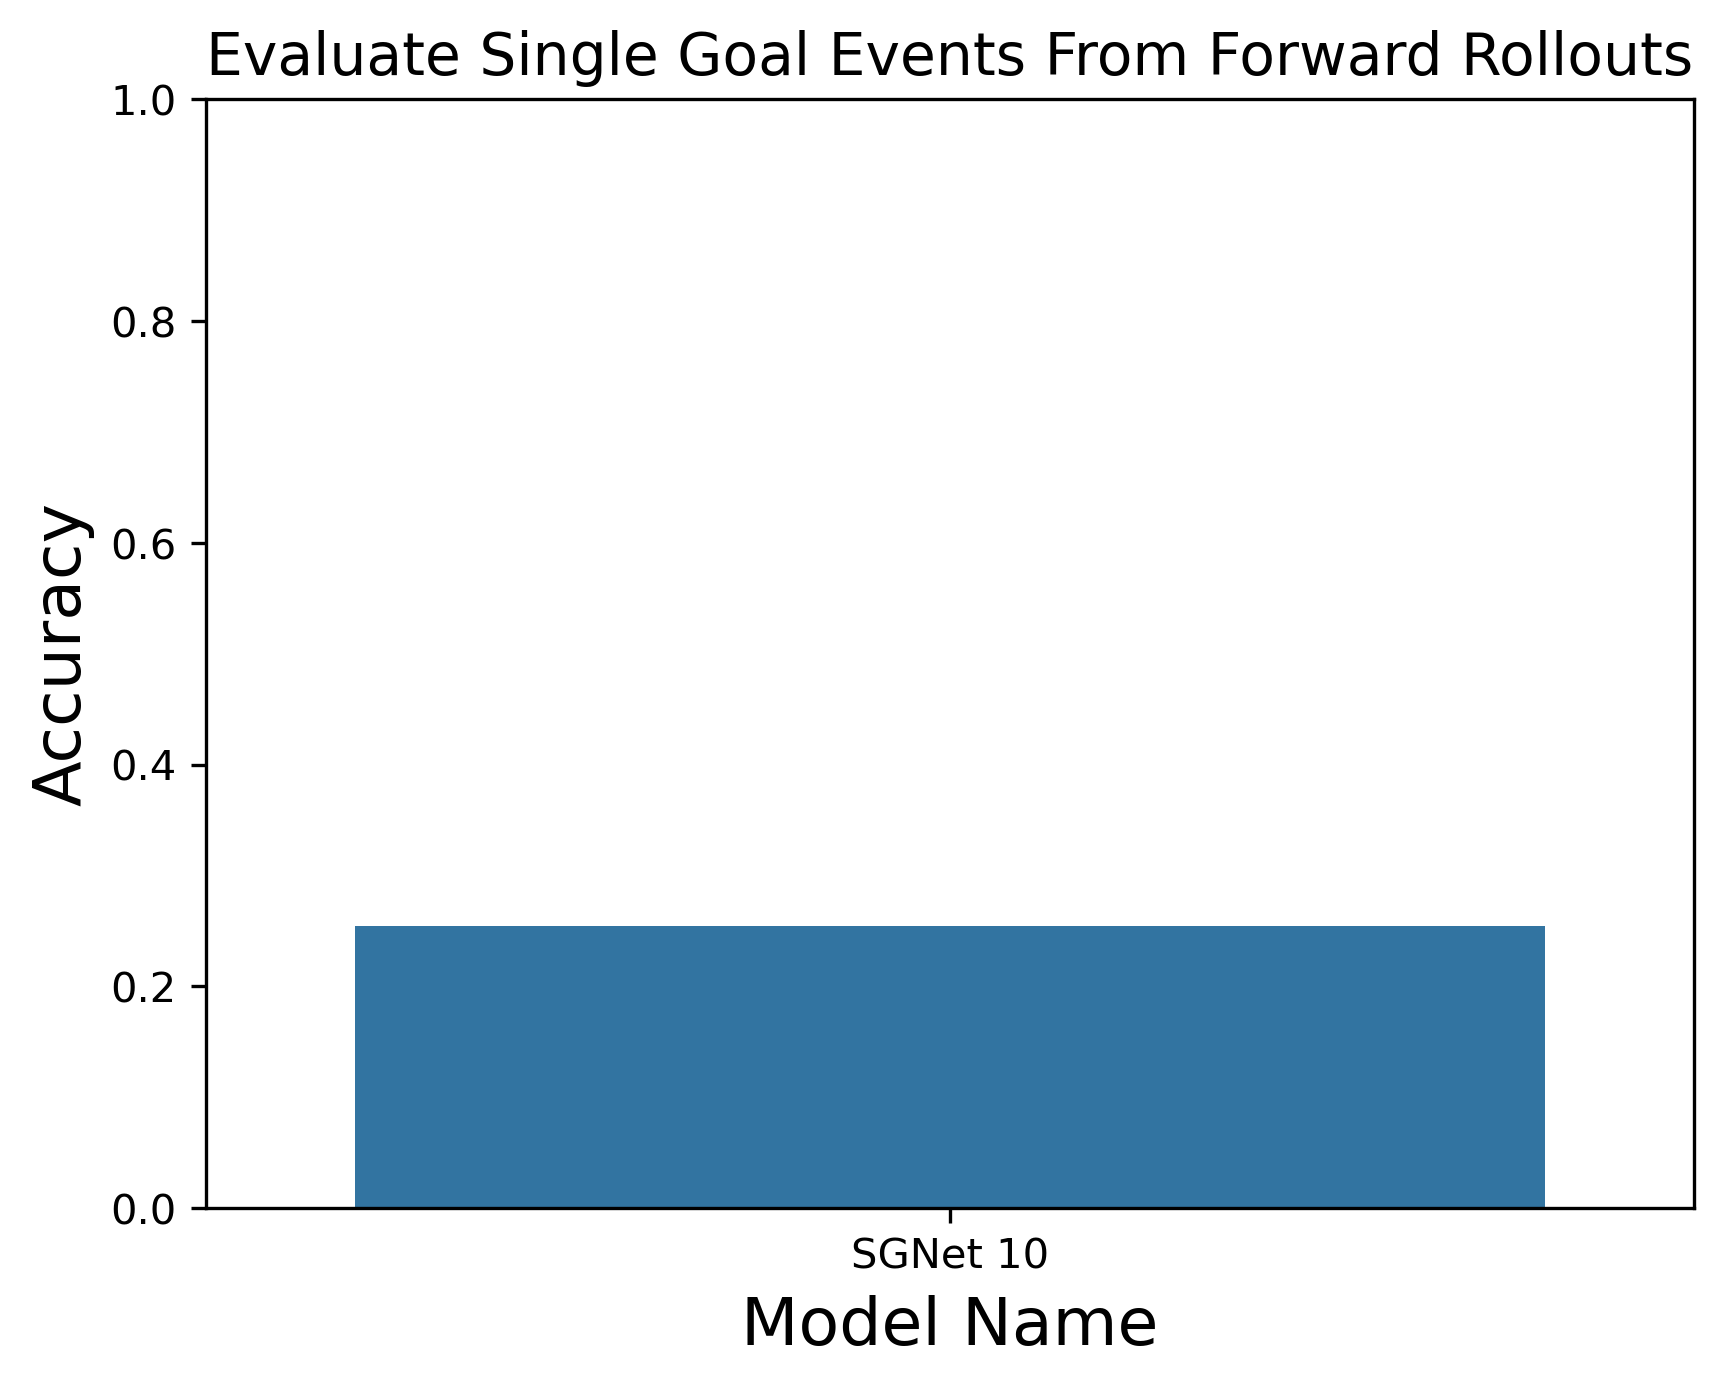
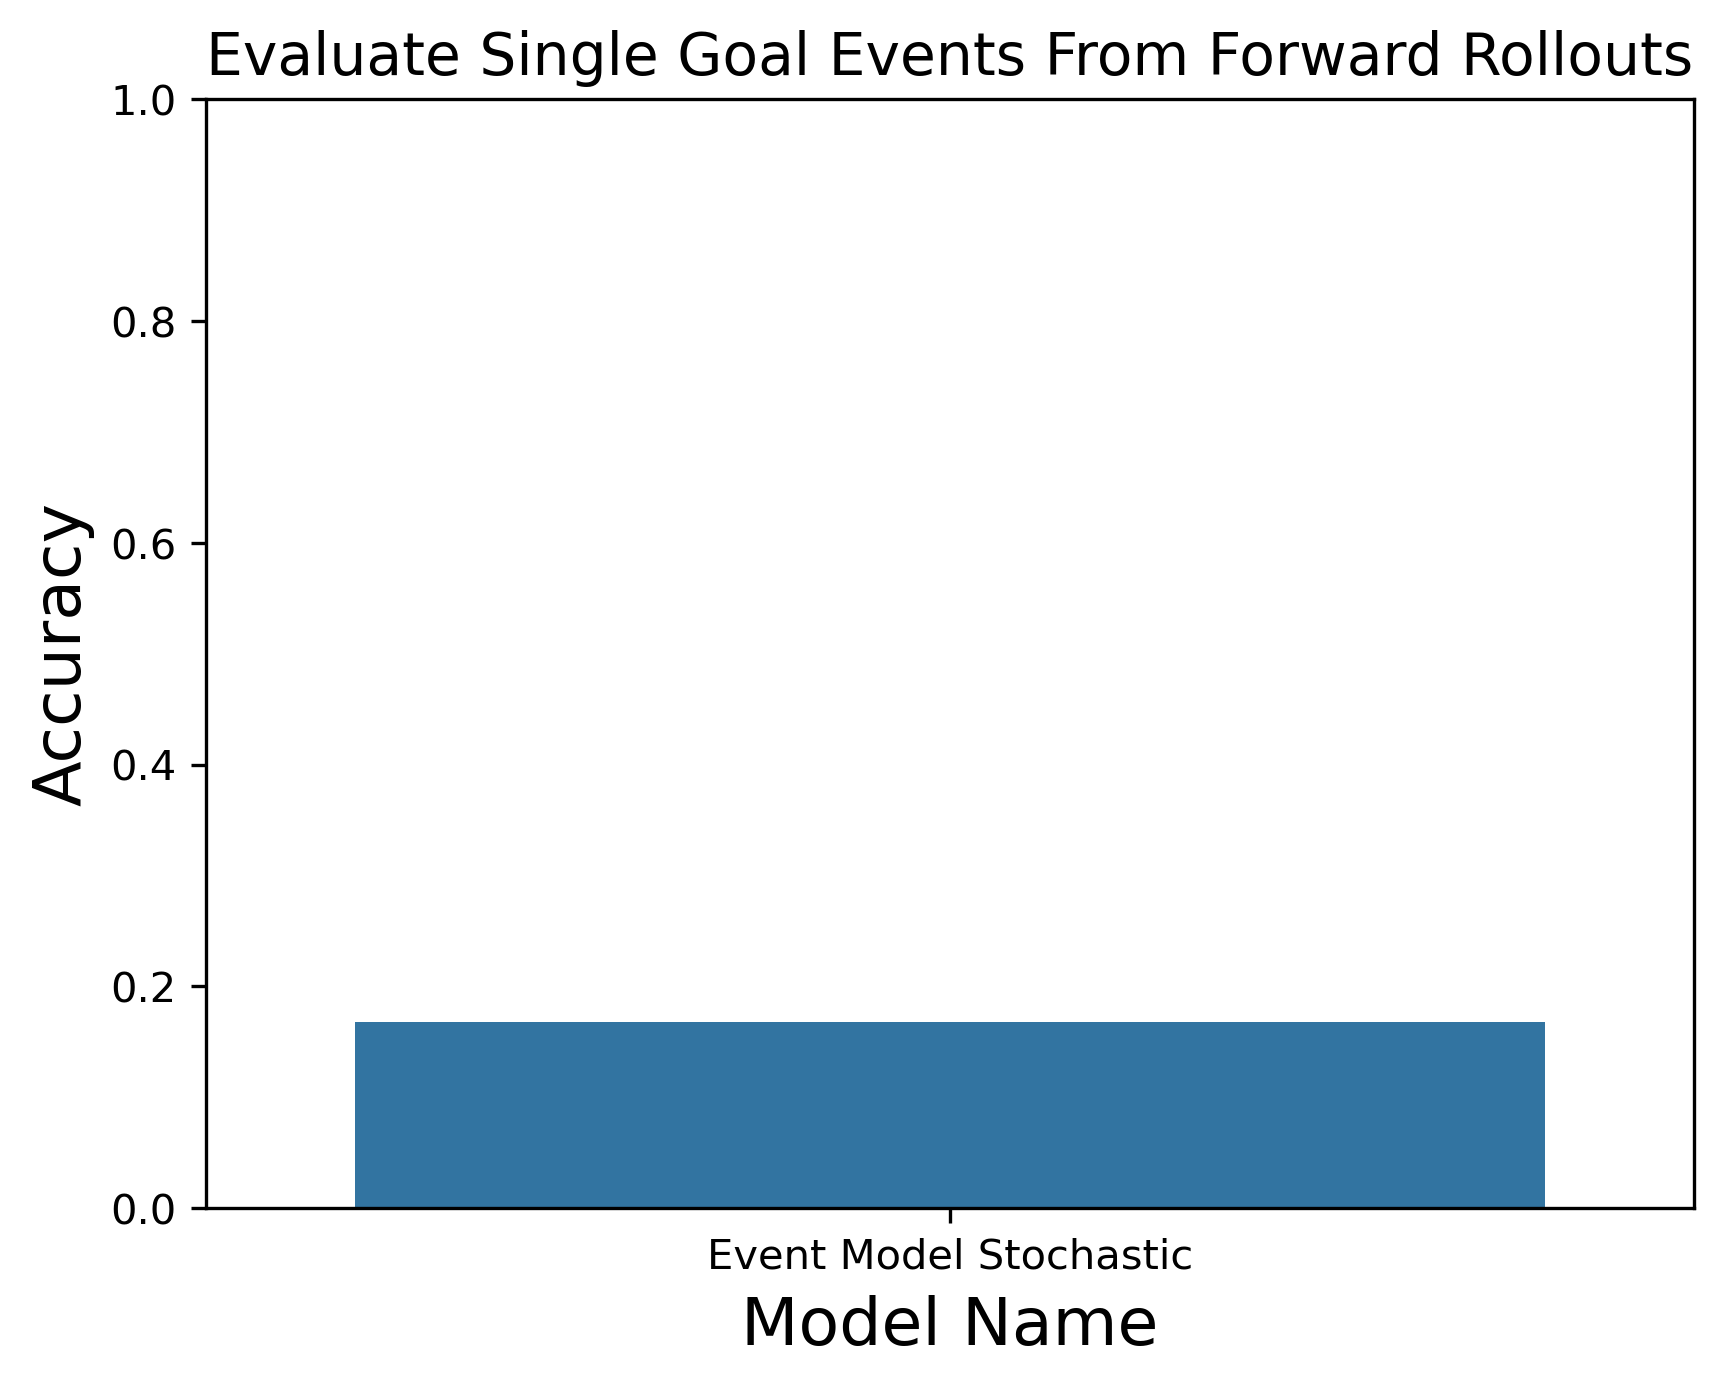
Em stoch results

Changed region(s): [[0.1845, 0.6506, 0.9223, 0.7435], [0.3997, 0.8674, 0.6763, 0.9294]]

diff --git a/train_event_model.py b/train_event_model.py
@@ -67,6 +67,7 @@ def load_args():
     parser.add_argument('--mp_mlp_hidden_size', type=int, help='MP MLP hidden size')
     parser.add_argument('--ep_rnn_hidden_size', type=int, help='EP RNN hidden size')
     parser.add_argument('--ep_mlp_hidden_size', type=int, help='EP MLP hidden size')
+    parser.add_argument('--ep_beta', type=float, help='VAE Beta for Stochastic Event Predictor')
     parser.add_argument('--burn_in_length', type=int, default=50, help='Amount of frames to burn into RNN')
     parser.add_argument('--rollout_length', type=int, default=30, help='Forward rollout length')    
 
@@ -183,6 +184,7 @@ def main():
     loss_dict['train'] = []
     loss_dict['mp_loss'] = []
     loss_dict['ep_loss'] = []
+    loss_dict['kl_loss'] = []
     loss_dict['val'] = []
     loss_dict['val_mp_loss'] = []
     loss_dict['val_ep_loss'] = []
@@ -201,7 +203,10 @@ def main():
             event_horizons = event_horizons.to(DEVICE)
             nsamples += batch_x.shape[0]
             opt.zero_grad()
-            ep_loss, event_loss, horizon_loss, event_hat, event_horizon_hat = ep_model.supervised_loss(batch_x[:,:burn_in_length,:], event_states, event_horizons)
+            if ep_config['model_type'] == 'event_predictor':
+                ep_loss, event_loss, horizon_loss, event_hat, event_horizon_hat = ep_model.supervised_loss(batch_x[:,:burn_in_length,:], event_states, event_horizons)
+            elif ep_config['model_type'] == 'event_predictor_stochastic':
+                ep_loss, event_loss, horizon_loss, event_hat, event_horizon_hat, kl_loss = ep_model.supervised_loss(batch_x[:,:burn_in_length,:], event_states, event_horizons)
             # condition ms predictor on predicted end states, detach from computational graph so gradients don't flow through ep_model
             if mp_config['input_pred_horizon']:
                 # concatenate event_hat and event_horizon_hat
@@ -210,17 +215,22 @@ def main():
             loss = ep_loss + mp_loss
             loss.backward()
             opt.step()
-            batch_loss.append([ep_loss.item(), mp_loss.item(), loss.item()])
-        loss_dict['train'].append(np.mean([b_loss[-1] for b_loss in batch_loss]))
+            batch_loss.append([ep_loss.item(), mp_loss.item(), loss.item(), kl_loss.item()])
+        loss_dict['train'].append(np.mean([b_loss[2] for b_loss in batch_loss]))
         loss_dict['ep_loss'].append(np.mean([b_loss[0] for b_loss in batch_loss]))
         loss_dict['mp_loss'].append(np.mean([b_loss[1] for b_loss in batch_loss]))
+        if ep_config['model_type'] == 'event_predictor_stochastic':
+            loss_dict['kl_loss'].append(np.mean([b_loss[3] for b_loss in batch_loss]))
         loss_dict['epoch_times'].append(time.time()-start_time)
             
         # test on validation set
         with torch.no_grad():
             mp_model.eval()
             ep_model.eval()
-            val_ep_loss, val_event_loss, val_horizon_loss, val_event_hat, val_event_horizon_hat = ep_model.supervised_loss(val_trajs[:,:burn_in_length,:], val_event_states, val_event_horizons)
+            if ep_config['model_type'] == 'event_predictor':
+                val_ep_loss, val_event_loss, val_horizon_loss, val_event_hat, val_event_horizon_hat = ep_model.supervised_loss(val_trajs[:,:burn_in_length,:], val_event_states, val_event_horizons)
+            elif ep_config['model_type'] == 'event_predictor_stochastic':
+                val_ep_loss, val_event_loss, val_horizon_loss, val_event_hat, val_event_horizon_hat, val_kl_loss = ep_model.supervised_loss(val_trajs[:,:burn_in_length,:], val_event_states, val_event_horizons)
             if mp_config['input_pred_horizon']:
                 # concatenate event_hat and event_horizon_hat
                 val_event_hat = torch.cat([val_event_hat, val_event_horizon_hat.unsqueeze(1)], dim=-1)
@@ -234,6 +244,7 @@ def main():
         writer.add_scalar('Train Loss/loss', loss_dict['train'][-1], epoch)
         writer.add_scalar('Train Loss/ep_loss', loss_dict['ep_loss'][-1], epoch)
         writer.add_scalar('Train Loss/mp_loss', loss_dict['mp_loss'][-1], epoch)
+        writer.add_scalar('Train Loss/kl_loss', loss_dict['kl_loss'][-1], epoch)
         writer.add_scalar('Val Loss/val', val_loss, epoch)
         writer.add_scalar('Val Loss/val_ep_loss', val_ep_loss.item(), epoch)
         writer.add_scalar('Val Loss/val_mp_loss', val_mp_loss.item(), epoch)
@@ -254,7 +265,10 @@ def main():
                 training_info[key] = loss_dict[key]
             df_training = pd.DataFrame.from_dict(training_info)
             df_training.to_csv(os.path.join(save_dir, f'training_info_{model_filename}.csv'))
-        print(f'Epoch {epoch}, Train Loss {loss_dict["train"][-1]}, Event Loss {loss_dict["ep_loss"][-1]}, MP Loss {loss_dict["mp_loss"][-1]}, Validation Loss {loss_dict["val"][-1]}')
+        if ep_config['model_type'] == 'event_predictor_stochastic':
+            print(f'Epoch {epoch}, Train Loss {loss_dict["train"][-1]}, Event Loss {loss_dict["ep_loss"][-1]}, MP Loss {loss_dict["mp_loss"][-1]}, KL Loss {loss_dict["kl_loss"][-1]}, Validation Loss {loss_dict["val"][-1]}')
+        else:
+            print(f'Epoch {epoch}, Train Loss {loss_dict["train"][-1]}, Event Loss {loss_dict["ep_loss"][-1]}, MP Loss {loss_dict["mp_loss"][-1]}, Validation Loss {loss_dict["val"][-1]}')
 
 
 if __name__ == '__main__':    

diff --git a/constants_lc.py b/constants_lc.py
@@ -264,6 +264,24 @@ MODEL_DICT_VAL=  {
     'rssm_disc_h_2048_lr3e-4_s2': {
         'class': DreamerV2, 'config': 'rssm_disc_ds3_dec_hidden_size_2048.json',
         'model_dir': 'rssm_disc_h_2048_lr3e-4_s2', 'model_label': 'RSSM-S2'},
+    'stoch_event_model': {
+        'class': EventModel, 'config': 'event_model_stochastic.json',
+        'model_dir': 'em_stoch', 'model_label': 'Event Model Stochastic'},
+    'stoch_em_beta0_5': {
+        'class': EventModel, 'config': 'event_model_stochastic.json',
+        'model_dir': 'em_stoch_beta0_5', 'model_label': 'Event Model Stochastic'},
+    'stoch_em_beta0_1': {
+        'class': EventModel, 'config': 'event_model_stochastic.json',
+        'model_dir': 'em_stoch_beta0_1', 'model_label': 'Event Model Stochastic'},
+    'stoch_em_beta10': {
+        'class': EventModel, 'config': 'event_model_stochastic.json',
+        'model_dir': 'em_stoch_beta10', 'model_label': 'Event Model Stochastic'},
+    'stoch_em_beta100': {
+        'class': EventModel, 'config': 'event_model_stochastic.json',
+        'model_dir': 'em_stoch_beta100', 'model_label': 'Event Model Stochastic'},
+    'stoch_em_beta1e3': {
+        'class': EventModel, 'config': 'event_model_stochastic.json',
+        'model_dir': 'em_stoch_beta1e3', 'model_label': 'Event Model Stochastic'},
 }
 # Get the hostname of the machine
 hostname = socket.gethostname()
@@ -328,7 +346,8 @@ DEFAULT_VALUES = {
     #'model_keys': list(MODEL_DICT_VAL.keys()),
     #'model_keys': ['mp_mlp_2048_lr3e-4_s1','rssm_disc_h_2048_lr3e-4_s1','rssm_cont_h_2048_lr1e-4_s1','md_mlp_2048_lr3e-4_s1','transformer_iris'],
     #'model_keys': ['mp_mlp_2048_lr3e-4_s1','rssm_disc_h_2048_lr3e-4_s1','tf_emb2048_lr1e-4_s1'],
-    'model_keys': ['sgnet_10', 'sgnet10_s2', 'sgnet10_s3'],     
+    #'model_keys': ['sgnet_10', 'sgnet10_s2', 'sgnet10_s3'],     
+    'model_keys': ['stoch_event_model', 'stoch_em_beta0_5', 'stoch_em_beta0_1', 'stoch_em_beta10', 'stoch_em_beta100', 'stoch_em_beta1e3'],
     'eval_types': ['goal_events', 'multigoal_events', 'move_events', 'pickup_events', 'displacement'],
     'move_threshold': 4.0,
     'non_goal_burn_in': 50,

diff --git a/models.py b/models.py
@@ -3063,7 +3063,7 @@ class EventPredictorStochastic(nn.Module):
             event_horizon_hat = None
             
         # Add KL divergence to the loss
-        kl_loss = -0.5 * torch.sum(1 + self.log_var - self.mu.pow(2) - self.log_var.exp())
-        loss += self.beta * kl_loss
+        kl_loss = (-0.5 * torch.sum(1 + self.log_var - self.mu.pow(2) - self.log_var.exp())) * self.beta
+        loss += kl_loss
 
         return loss, event_loss, horizon_loss, event_hat, event_horizon_hat, kl_loss
